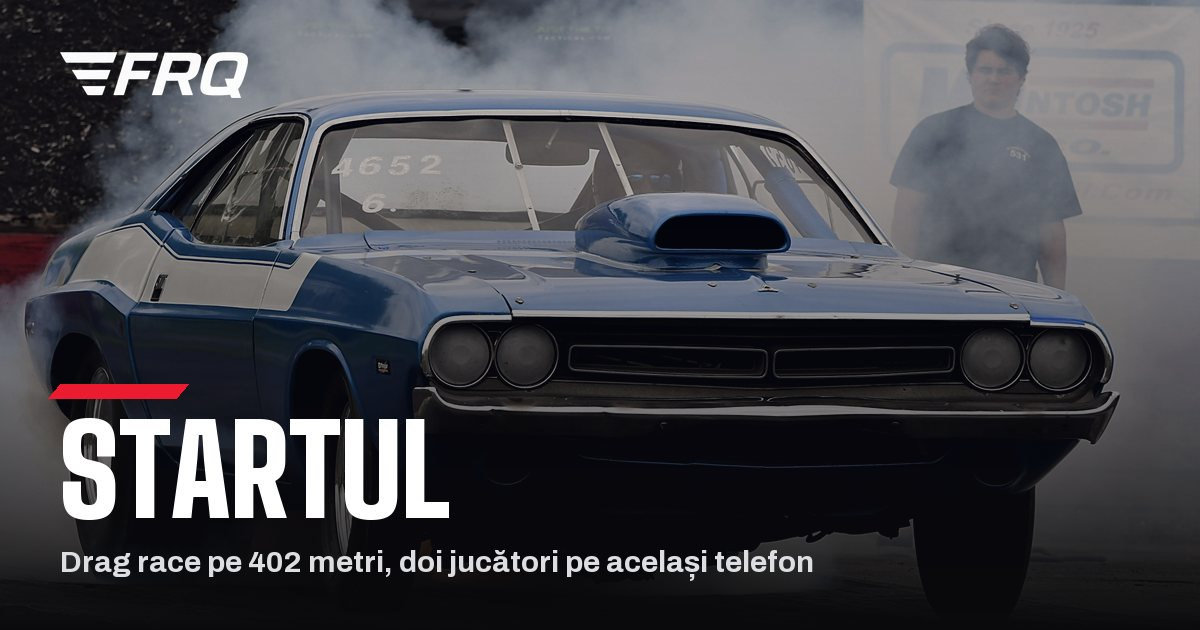
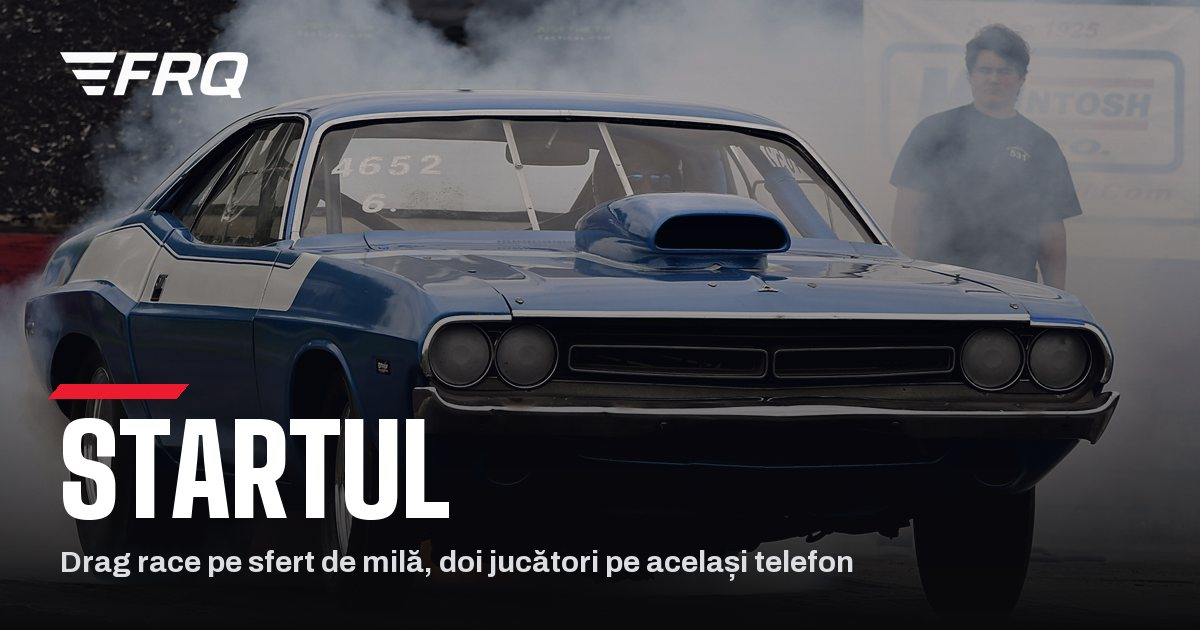
Startul: sfert de milă în loc de 402 metri, parapete, stâlpi de iluminat, mesaje deasupra săgeții
Reperele devin 330 ft, 1/8, 1000 ft și finișul la 1/4 milă. Pista primește
parapete cu banda jucătorului, stâlpi cu lumina lor pe asfalt, flash la finiș
și o trepidație la plecare; deasupra săgeții apar reacția și nota fiecărei
schimbări (Perfect, Bine, Devreme, Limitator).

Changed region(s): [[0.185, 0.8746, 0.7092, 0.9349]]

diff --git a/drag.js b/drag.js
@@ -102,6 +102,7 @@
     avanseaza(c, la);
     if (c.fin != null) return;
     const n = nota(c.r, fortat || c.lim != null);
+    c.motiv = fortat || c.lim != null ? 'Limitator' : n === '+' ? 'Perfect' : n === '0' ? 'Bine' : 'Devreme';
     c.note.push(n);
     c.ritm = RITM[n];
     c.gear++;
@@ -255,6 +256,7 @@
       // Cine trece linia își vede timpul pe loc, fără să-l aștepte pe celălalt.
       if (c.fin != null && !c.sosit) {
         c.sosit = true;
+        clipa('fin-flash');
         stare(c.p, 'done');
         mesajPista(c.p, `${fmt((c.fin - cursa.verde) / 1000, 2)} s`);
       }
@@ -292,10 +294,16 @@
     const titlu = prima ? `Plecare ${fmt(c.reactie / 1000, 2)} s` : `Schimbarea ${c.note.length - 1}`;
     el.querySelector('.drg-note').insertAdjacentHTML('beforeend',
       `<span class="drg-n n${n === '+' ? 'plus' : n === '-' ? 'minus' : 'zero'}${prima ? ' is-start' : ''}" title="${esc(titlu)}">${eticheta}</span>`);
+    const cls = n === '+' ? 'bun' : n === '-' ? 'rau' : '';
     if (prima) {
       el.querySelector('.drg-rt').textContent = `reacție ${fmt(c.reactie / 1000, 2)} s`;
       fum(c.p);
-    } else flama(c.p);
+      clipa('trepida');
+      deasupra(c, `${fmt(c.reactie / 1000, 2)} s`, cls);
+    } else {
+      flama(c.p);
+      deasupra(c, c.motiv, cls);
+    }
     stare(c.p, c.gear >= c.G - 1 ? 'last' : 'run');
   }
 
@@ -349,7 +357,14 @@
   // decât startul. Pista se desenează o dată pe mărimea ecranului; în cursă se mută
   // doar săgețile.
   const K = 2.6;
-  const REPERE = [100, 201, 305];
+  // Reperele clasice de pe o pistă de drag: 330 de picioare, o optime de milă și
+  // 1000 de picioare; finișul e la un sfert de milă (402 m).
+  const MILA_4 = 402.336;
+  const REPERE = [[100.584, '330 ft'], [201.168, '1/8'], [304.8, '1000 ft']];
+  // stâlpii de iluminat, din 50 în 50 de metri, pe ambele părți (primul rând ar
+  // cădea chiar pe marginea ecranului, deci începem de la 50 m; ultimul ar acoperi
+  // eticheta de la finiș, deci ne oprim la 300 m)
+  const STALPI = [50, 100, 150, 200, 250, 300].map(m => m / MILA_4);
   // Săgeata fiecăruia: o pată de lumină pe asfalt, desenată în perspectivă, cu vârful
   // înainte. Lungimea e în bucăți de pistă (0,07 = 28 m), lățimea în jumătăți de
   // pistă (0,22 = aproape jumătate de bandă).
@@ -382,9 +397,16 @@
       // dâra din spatele săgeții, în culoarea jucătorului, care se stinge spre noi
       + [0, 1].map(p => `<linearGradient id="drg-u${p}" x1="0" y1="0" x2="0" y2="1"><stop offset="0" style="stop-color:var(--p${p})" stop-opacity=".6"/><stop offset="1" style="stop-color:var(--p${p})" stop-opacity="0"/></linearGradient>`).join('')
       + '<filter id="drg-glow" x="-60%" y="-60%" width="220%" height="220%"><feGaussianBlur stdDeviation="4"/></filter>'
+      + '<radialGradient id="drg-pata"><stop offset="0" stop-color="#ffeccc" stop-opacity=".16"/><stop offset="1" stop-color="#ffeccc" stop-opacity="0"/></radialGradient>'
+      + '<radialGradient id="drg-bec"><stop offset="0" stop-color="#fff"/><stop offset=".35" stop-color="#ffe9c4" stop-opacity=".8"/><stop offset="1" stop-color="#ffe0b0" stop-opacity="0"/></radialGradient>'
+      + grad('drg-zid', y(SUS) - lat0 * 0.1, H, '<stop offset="0" stop-color="#121317"/><stop offset="1" stop-color="#2c2e35"/>')
       + '</defs>';
     svg += trap(fJos, SUS, -1, 1, 'fill="url(#drg-asf)"');
     svg += trap(fJos, 1, -1, 0, 'class="tint l0" fill="url(#drg-t0)"') + trap(fJos, 1, 0, 1, 'class="tint l1" fill="url(#drg-t1)"');
+    // lumina stâlpilor pe asfalt, câte o pată moale în dreptul fiecăruia
+    for (const f of STALPI) for (const sd of [-1, 1]) {
+      svg += `<ellipse class="pata" cx="${n(cx + sd * 0.55 * lat(f))}" cy="${n(y(f))}" rx="${n(0.7 * lat(f))}" ry="${n(Math.max(2, (y(f - 0.035) - y(f + 0.035)) / 2))}" fill="url(#drg-pata)"/>`;
+    }
     // urmele de cauciuc lăsate de plecările de dinainte
     for (const c of [-0.5, 0.5]) for (const r of [-0.15, 0.15]) svg += trap(fJos, 0.4, c + r - 0.035, c + r + 0.035, 'fill="url(#drg-cauc)"');
     // marginile, fiecare în culoarea benzii, și linia din mijloc
@@ -392,10 +414,10 @@
     svg += trap(fJos, SUS, 0.93, 1.04, 'class="glow p1"') + trap(fJos, SUS, 0.975, 1, 'class="margine p1"');
     svg += trap(fJos, SUS, -0.012, 0.012, 'class="mijloc"');
     svg += trap(0, 0.007, -1, 1, 'class="linie"');
-    for (const m of REPERE) {
-      const f = m / 402;
+    for (const [m, eticheta] of REPERE) {
+      const f = m / MILA_4;
       svg += trap(f, f + 0.004, -1, 1, 'class="reper"');
-      svg += `<text class="reper-t" x="${n(cx + lat(f) + 6)}" y="${n(y(f) + 4)}" font-size="${n(Math.max(8, 16 * s(f)))}">${m} m</text>`;
+      svg += `<text class="reper-t" x="${n(cx + lat(f) + 6)}" y="${n(y(f) + 4)}" font-size="${n(Math.max(8, 16 * s(f)))}">${eticheta}</text>`;
     }
     // finișul în carouri
     const yf = y(1), lat1 = lat(1), col = 14, ch = Math.max(3, (yS - yH) * 0.012);
@@ -404,7 +426,23 @@
         svg += `<rect x="${n(cx - lat1 + (k * 2 * lat1) / col)}" y="${n(yf - (r + 1) * ch)}" width="${n((2 * lat1) / col + 0.3)}" height="${n(ch)}" fill="${(r + k) % 2 ? '#0a0a0c' : '#f2f2f2'}"/>`;
       }
     }
-    svg += `<text class="reper-t fin" x="${n(cx + lat1 + 6)}" y="${n(yf)}" font-size="11">402 m</text>`;
+    svg += trap(0.994, 1.014, -1.08, 1.08, 'class="fin-glow"');
+    svg += `<text class="reper-t fin" x="${n(cx + lat1 + 6)}" y="${n(yf)}" font-size="11">1/4 milă</text>`;
+    // parapetele, de-a lungul marginilor, cu o dungă în culoarea benzii pe muchie
+    const zid = f => lat0 * 0.085 * s(f);
+    for (const sd of [-1, 1]) {
+      const x = f => cx + sd * 1.045 * lat(f);
+      const fata = (h0, h1) => `${n(x(fJos))},${n(y(fJos) - zid(fJos) * h0)} ${n(x(SUS))},${n(y(SUS) - zid(SUS) * h0)} ${n(x(SUS))},${n(y(SUS) - zid(SUS) * h1)} ${n(x(fJos))},${n(y(fJos) - zid(fJos) * h1)}`;
+      svg += `<polygon class="zid" points="${fata(0, 1)}" fill="url(#drg-zid)"/>`;
+      svg += `<polygon class="zid-banda p${sd < 0 ? 0 : 1}" points="${fata(0.8, 1)}"/>`;
+    }
+    // stâlpii, de departe spre aproape, ca cei apropiați să stea în față
+    for (const f of [...STALPI].reverse()) for (const sd of [-1, 1]) {
+      const x = cx + sd * 1.17 * lat(f), jos = y(f), sus = jos - lat0 * 1.15 * s(f);
+      const brat = x - sd * 0.3 * lat(f), gros = Math.max(1, 3 * s(f));
+      svg += `<path class="stalp" stroke-width="${n(gros)}" d="M${n(x)} ${n(jos)}V${n(sus)}H${n(brat)}"/>`;
+      svg += `<circle class="bec" cx="${n(brat)}" cy="${n(sus + gros)}" r="${n(Math.max(3, 16 * s(f)))}" fill="url(#drg-bec)"/>`;
+    }
     svg += [0, 1].map(p => `<g class="drg-sageata p${p}"><polygon class="urma" fill="url(#drg-u${p})"/><polygon class="halo" filter="url(#drg-glow)"/><polygon class="varf"/></g>`).join('');
     // fumul de la plecare, la baza săgeții
     const w0 = lat0 * LAT_S;
@@ -452,6 +490,27 @@
     g.classList.remove('flacara');
     void g.getBoundingClientRect();
     g.classList.add('flacara');
+  }
+
+  // O clasă pe pistă, pusă din nou de la capăt, ca animația ei să pornească iar.
+  function clipa(cls) {
+    const tr = $('d-track');
+    tr.classList.remove(cls);
+    void tr.offsetWidth;
+    tr.classList.add(cls);
+  }
+
+  // Un cuvânt care urcă deasupra săgeții și se stinge: reacția la plecare, apoi nota
+  // fiecărei schimbări.
+  function deasupra(c, text, cls) {
+    if (!geo) return;
+    const f = pozitie(c.u) / 100, el = document.createElement('p');
+    el.className = `drg-pop${cls ? ` ${cls}` : ''}`;
+    el.textContent = text;
+    el.style.left = `${(geo.cx + (c.p ? 0.5 : -0.5) * geo.lat(f)).toFixed(1)}px`;
+    el.style.top = `${geo.y(f + SAGEATA).toFixed(1)}px`;
+    $('d-track').appendChild(el);
+    setTimeout(() => el.remove(), 1000);
   }
 
   function fum(p) {

diff --git a/i18n.js b/i18n.js
@@ -307,6 +307,12 @@ window.I18n = (() => {
     'Garaj sau presă | FRQ': 'Garage or Crusher | FRQ',
     'Garaj sau presă': 'Garage or Crusher',
     'Garaj': 'Garage',
+    "1/4 milă": "1/4 mile",
+    "Bine": "Good",
+    "Devreme": "Early",
+    "Limitator": "Limiter",
+    "Perfect": "Perfect",
+    "Drag race pe sfert de milă, doi jucători pe același telefon: start ca în Formula 1, apoi schimbi la timp.": "A quarter-mile drag race, two players on one phone: an F1-style start, then shift on time.",
     "Stați unul lângă altul, cu telefonul în față. Stânga are mașina roșie, dreapta pe cea albă, și fiecare are butonul lui.": "Sit side by side, phone in front of you. Left gets the red car, right the white one, and each of you has a button.",
     "Apăsați amândoi Gata. Se aprind cinci lumini roșii; când se sting, apasă Start. Dacă apeși înainte, e start fals și pierzi cursa.": "Both press Ready. Five red lights come on; when they go out, press Start. Press before that and it is a false start: you lose the race.",
     "La fiecare treaptă acul urcă: apasă Schimbă când e în verde. Prea devreme sau pe limitator te încetinește.": "In every gear the needle climbs: press Shift when it is in the green. Too early, or on the limiter, slows you down.",
@@ -319,11 +325,10 @@ window.I18n = (() => {
     "Rezultatul": "The result",
     "Start fals": "False start",
     "Egal": "Dead heat",
-    'Drag race pe 402 metri, doi jucători pe același telefon: start ca în Formula 1, apoi schimbi la timp. Mașina contează, mâna contează mai mult.':
-      'A quarter-mile drag race for two players on one phone: a Formula 1 start, then shift on time. The car matters, your hand matters more.',
+    "Drag race pe sfert de milă, doi jucători pe același telefon: start ca în Formula 1, apoi schimbi la timp. Mașina contează, mâna contează mai mult.": 'A quarter-mile drag race for two players on one phone: a Formula 1 start, then shift on time. The car matters, your hand matters more.',
     "Startul": "The Launch",
     "Startul | FRQ": "The Launch | FRQ",
-    "402 metri": "quarter mile",
+    "Sfert de milă": "Quarter mile",
     "Mașina mai rapidă are acul mai iute, deci nimerești mai greu. Câștigă primul care ia trei curse.": "A faster car has a quicker needle, so it is harder to hit. First to three races wins.",
     "Cursa": "The race",
     "Meci încheiat": "Match over",
@@ -331,7 +336,7 @@ window.I18n = (() => {
     "start fals": "false start",
     "Ieși? Meciul se pierde.": "Leave? The match is lost.",
     "2 jucători, un telefon": "2 players, one phone",
-    "Drag race pe 402 metri. Pleci când se sting luminile și schimbi în verde. Mașina contează, mâna contează mai mult.": "A quarter-mile drag race. Launch when the lights go out and shift in the green. The car matters, your hand matters more.",
+    "Drag race pe sfert de milă. Pleci când se sting luminile și schimbi în verde. Mașina contează, mâna contează mai mult.": "A quarter-mile drag race. Launch when the lights go out and shift in the green. The car matters, your hand matters more.",
     "Până la 3 victorii": "First to 3 wins",
     "Un Dodge Challenger albastru face burnout în fum, pe o pistă de drag": "A blue Dodge Challenger doing a burnout in smoke on a drag strip",
     "Jocuri cu mașini: Sus sau jos, Mașina perfectă, Turometrul, În ordine, Garaj sau presă, Licitația, Cel mai bun samsar și Startul.": "Car games: Higher or Lower, The Perfect Car, The Rev Counter, In Order, Garage or Crusher, The Auction, The Best Dealer and The Launch.",

diff --git a/drag.html b/drag.html
@@ -4,7 +4,7 @@
   <meta charset="utf-8">
   <meta name="viewport" content="width=device-width, initial-scale=1, viewport-fit=cover">
   <title>Startul | FRQ</title>
-  <meta name="description" content="Drag race pe 402 metri, doi jucători pe același telefon: start ca în Formula 1, apoi schimbi la timp. Mașina contează, mâna contează mai mult.">
+  <meta name="description" content="Drag race pe sfert de milă, doi jucători pe același telefon: start ca în Formula 1, apoi schimbi la timp. Mașina contează, mâna contează mai mult.">
   <link rel="preload" href="fonts/archivo-var.woff2" as="font" type="font/woff2" crossorigin>
   <link rel="preload" href="fonts/big-shoulders.woff2" as="font" type="font/woff2" crossorigin>
   <link rel="icon" href="favicon.svg" type="image/svg+xml">
@@ -13,7 +13,7 @@
   <meta property="og:type" content="website">
   <meta property="og:site_name" content="Jocuri FRQ">
   <meta property="og:title" content="Startul">
-  <meta property="og:description" content="Drag race pe 402 metri, doi jucători pe același telefon: start ca în Formula 1, apoi schimbi la timp.">
+  <meta property="og:description" content="Drag race pe sfert de milă, doi jucători pe același telefon: start ca în Formula 1, apoi schimbi la timp.">
   <meta property="og:url" content="https://frincu13.github.io/car-higher-lower/drag.html">
   <meta property="og:image" content="https://frincu13.github.io/car-higher-lower/img/og-drag.jpg">
   <meta property="og:image:width" content="1200">
@@ -39,7 +39,7 @@
     <div class="start">
       <span class="skew-bar" aria-hidden="true"></span>
       <p class="eyebrow">Jocuri FRQ &middot; 2 jucători</p>
-      <h1 id="d-title" class="logo">Startul<span>402 metri</span></h1>
+      <h1 id="d-title" class="logo">Startul<span>Sfert de milă</span></h1>
       <p class="lede">Unul lângă altul, același telefon. Se sting luminile, plecați, schimbați la timp. Mașina contează, mâna contează mai mult.</p>
 
       <button class="how-btn" type="button" data-how>Cum se joacă</button>

diff --git a/styles.css b/styles.css
@@ -2742,6 +2742,29 @@ body.sms { height: 100dvh; overflow: hidden; }
 .drg-road .reper { fill: rgba(255, 255, 255, .2); }
 .drg-road .reper-t { fill: var(--muted); font-family: var(--body); font-weight: 700; letter-spacing: .06em; }
 .drg-road .reper-t.fin { fill: var(--chalk); }
+.drg-road .zid-banda { fill: var(--pc); opacity: .85; }
+.drg-road .stalp { fill: none; stroke: #22242a; stroke-linecap: square; }
+.drg-road .fin-glow { fill: #fff; opacity: 0; }
+.drg-track.fin-flash .fin-glow { animation: drg-fin .7s ease-out; }
+@keyframes drg-fin { from { opacity: .85; } }
+/* la plecare pista trepidează o clipă */
+.drg-track.trepida .drg-road { animation: drg-trepida .32s linear; }
+@keyframes drg-trepida { 20% { transform: translate(2px, -1px); } 40% { transform: translate(-2px, 1px); } 60% { transform: translate(1px, 1px); } 80% { transform: translate(-1px, -1px); } }
+
+/* cuvântul de deasupra săgeții: urcă și se stinge */
+.drg-pop {
+  position: absolute; z-index: 3; margin: 0; pointer-events: none; white-space: nowrap;
+  font: 400 clamp(18px, 3vh, 26px)/1 var(--display); text-transform: uppercase; letter-spacing: .02em;
+  color: var(--chalk); text-shadow: 0 2px 10px rgba(0, 0, 0, .9);
+  animation: drg-urca .95s ease-out forwards;
+}
+.drg-pop.bun { color: var(--go); }
+.drg-pop.rau { color: var(--signal); }
+@keyframes drg-urca {
+  0% { opacity: 0; transform: translate(-50%, -80%) scale(.7); }
+  15% { opacity: 1; transform: translate(-50%, -100%) scale(1.08); }
+  100% { opacity: 0; transform: translate(-50%, -200%) scale(1); }
+}
 
 /* Săgețile: vârful în culoarea jucătorului, un halou încețoșat în jur și o dâră
    în spate. La fiecare schimbare haloul se aprinde o clipă; câștigătorul rămâne

diff --git a/index.html b/index.html
@@ -186,7 +186,7 @@
         <div class="game-body">
           <span class="game-tag">2 jucători, un telefon</span>
           <h2 class="game-title">Startul</h2>
-          <p class="game-desc">Drag race pe 402 metri. Pleci când se sting luminile și schimbi în verde. Mașina contează, mâna contează mai mult.</p>
+          <p class="game-desc">Drag race pe sfert de milă. Pleci când se sting luminile și schimbi în verde. Mașina contează, mâna contează mai mult.</p>
           <div class="game-foot">
             <p class="game-meta">Până la 3 victorii</p>
             <a class="btn btn-primary game-cta" href="drag.html">Joacă</a>

diff --git a/sw.js b/sw.js
@@ -1,7 +1,7 @@
 // Offline support: the game files are cached on install, so the games run with no
 // signal. Pages are fetched from the network first (so a deploy shows up right away)
 // and fall back to the cache; car photos from Wikimedia are kept in a second cache.
-const V = 'frq-v35';
+const V = 'frq-v36';
 const CORE = `${V}-core`;
 const PHOTOS = `${V}-photos`;
 const PHOTO_MAX = 300;
